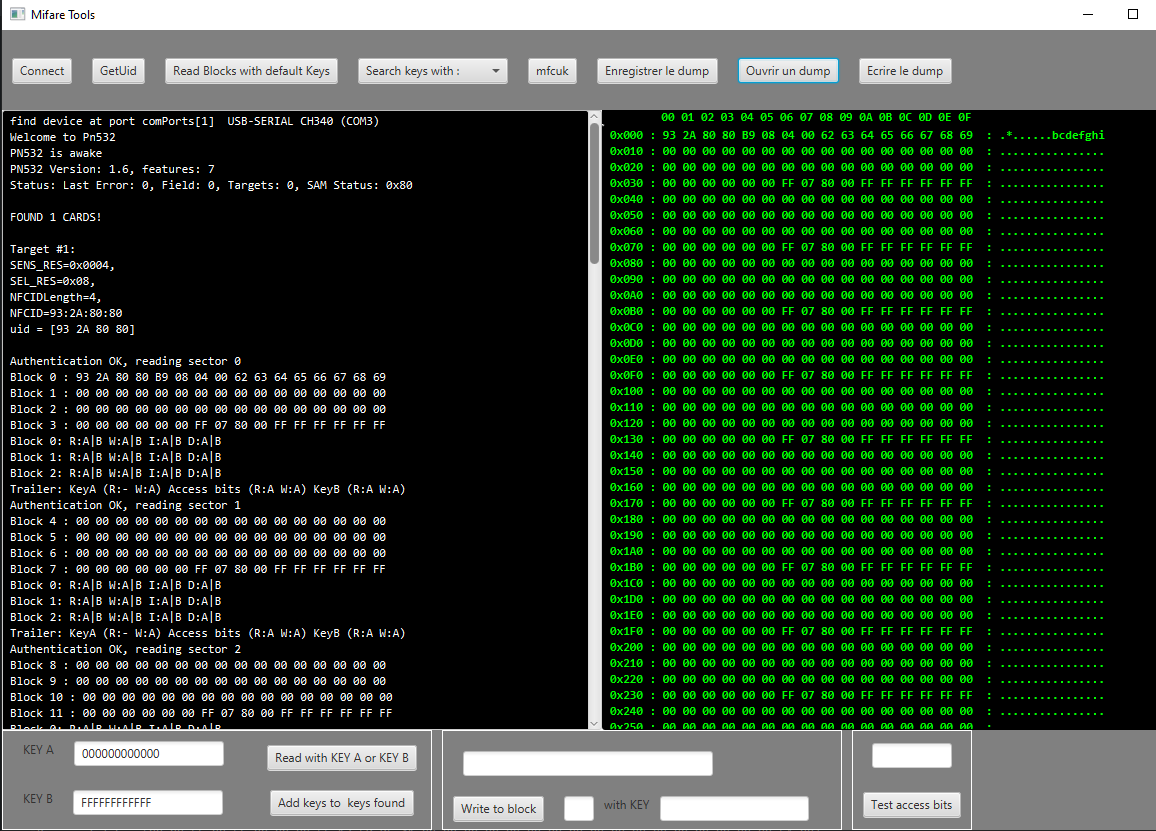
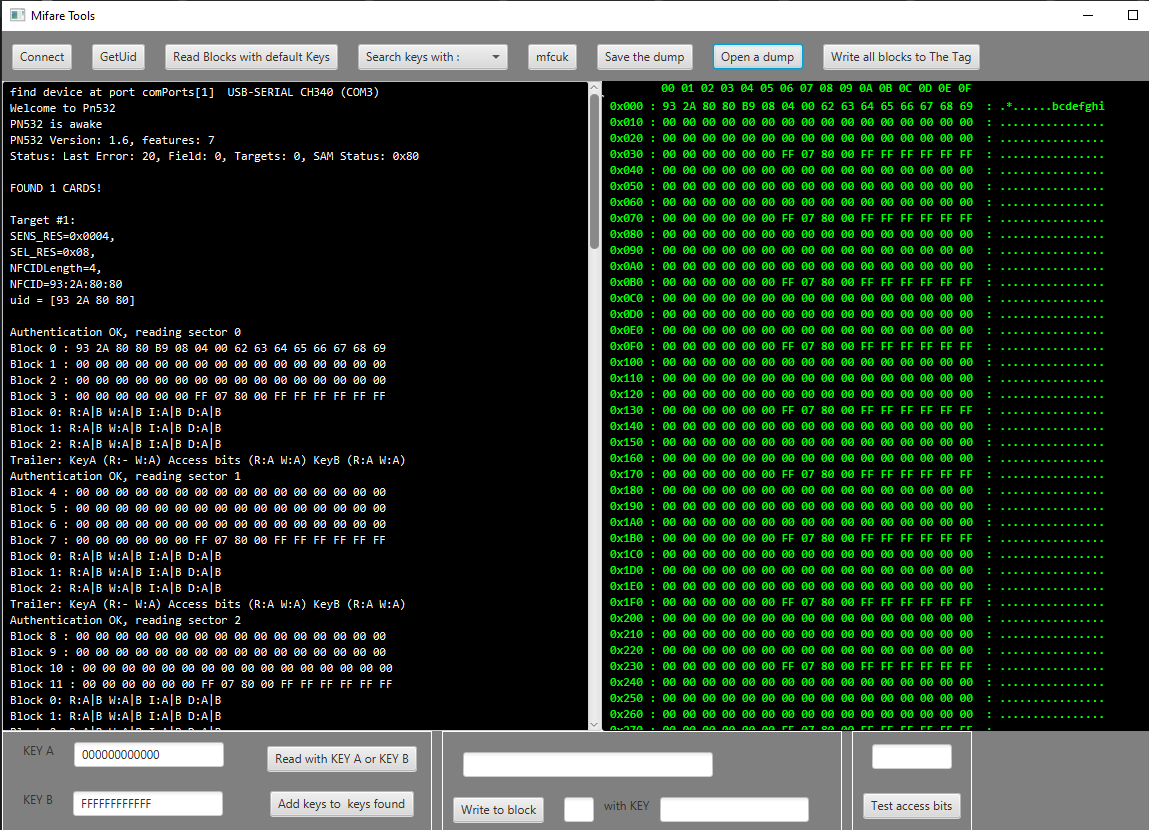
update fxml

Changed region(s): [[0.0, 0.0, 1.0, 1.0], [0.9748, 0.0, 1.0, 0.0301]]

diff --git a/src/hexEditor/FxHexView.java b/src/hexEditor/FxHexView.java
@@ -27,7 +27,7 @@ public class FxHexView extends TextArea {
 	public FxHexView() {
 		super();
 		this.setPrefColumnCount(80);
-		this.setPrefRowCount(40);
+		this.setPrefRowCount(45);
 		this.setWrapText(true);
 		this.getStyleClass().add("hex");
 		this.addEventHandler(MouseEvent.MOUSE_CLICKED, new EventHandler<MouseEvent>() {

diff --git a/src/mifareTools/MifareMain.java b/src/mifareTools/MifareMain.java
@@ -1,4 +1,3 @@
-
 package mifareTools;
 
 import javafx.application.Application;
